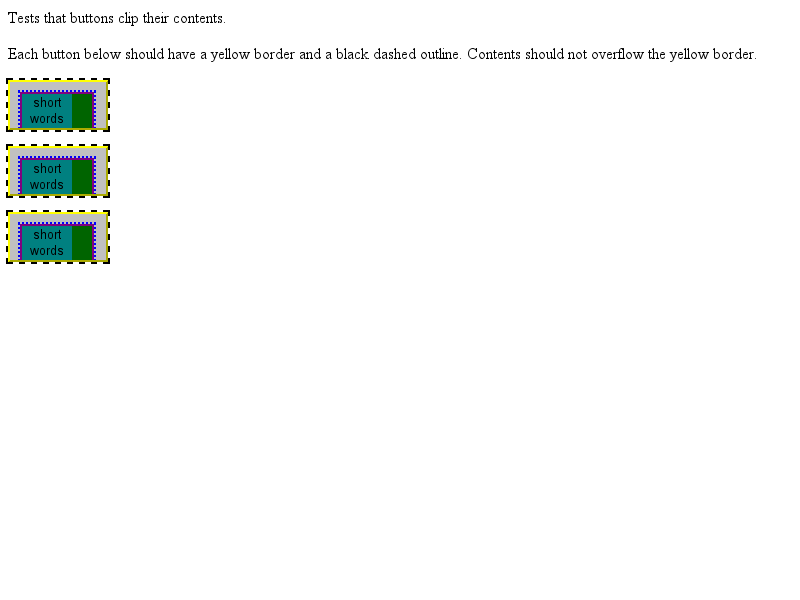
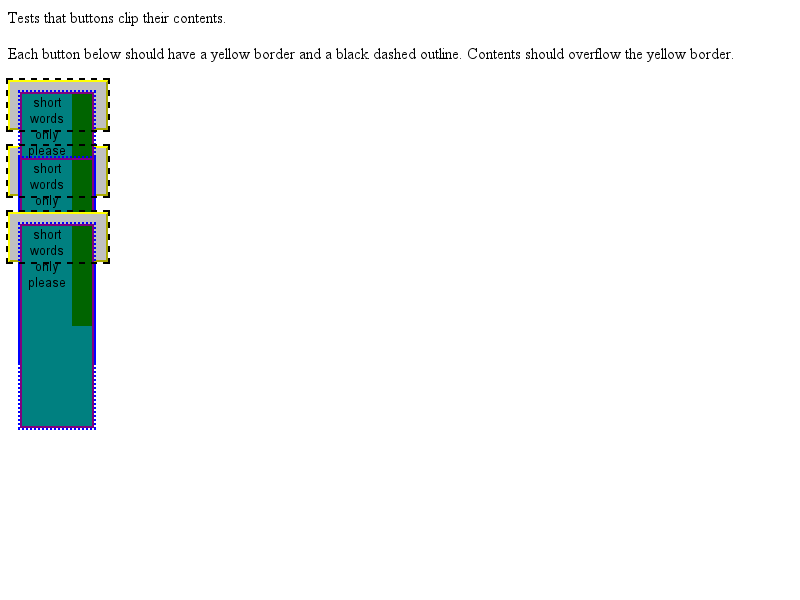
Button elements are clipping overflow by default
Stop clipping overflow by default on button elements. This feature is
desirable only for input elements.

This makes us compatible with FF/Trident.

BUG=465429

Review URL: https://codereview.chromium.org/1006023002

git-svn-id: svn://svn.chromium.org/blink/trunk@193213 bbb929c8-8fbe-4397-9dbb-9b2b20218538

diff --git a/LayoutTests/fast/forms/control-clip-overflow.html b/LayoutTests/fast/forms/control-clip-overflow.html
@@ -6,7 +6,8 @@
     REGRESSION: Really long &lt;option> causes unnecessary page scroll bars to accommodate content</i>.
 </p>
 <p>
-    There should not be scroll bars below the popup and the button.
+    There should not be scroll bars below the popup. 
+    There should be scrollbars below the button (see crbug.com/465429).
 </p>
 <div class="test-area">
     <select style="width: 80px">

diff --git a/LayoutTests/fast/forms/control-clip.html b/LayoutTests/fast/forms/control-clip.html
@@ -12,7 +12,7 @@
     </p>
     <p>
         Each button below should have a yellow border and a black dashed outline.
-        Contents should not overflow the yellow border.
+        Contents should overflow the yellow border.
     </p>
     <p>
         <button>

diff --git a/Source/core/layout/LayoutButton.h b/Source/core/layout/LayoutButton.h
@@ -45,7 +45,7 @@ public:
     virtual void removeLeftoverAnonymousBlock(LayoutBlock*) override { }
     virtual bool createsAnonymousWrapper() const override { return true; }
 
-    virtual bool hasControlClip() const override { return true; }
+    virtual bool hasControlClip() const override;
     virtual LayoutRect controlClipRect(const LayoutPoint&) const override;
 
     virtual int baselinePosition(FontBaseline, bool firstLine, LineDirectionMode, LinePositionMode) const override;

diff --git a/Source/core/layout/LayoutButton.cpp b/Source/core/layout/LayoutButton.cpp
@@ -103,4 +103,10 @@ int LayoutButton::baselinePosition(FontBaseline baseline, bool firstLine, LineDi
     return LayoutFlexibleBox::baselinePosition(baseline, firstLine, direction, linePositionMode);
 }
 
+
+// For compatibility with IE/FF we only clip overflow on input elements.
+bool LayoutButton::hasControlClip() const
+{
+    return !isHTMLButtonElement(node());
+}
 } // namespace blink
